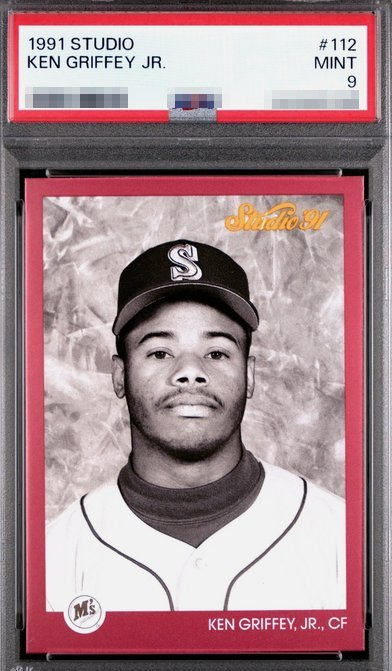
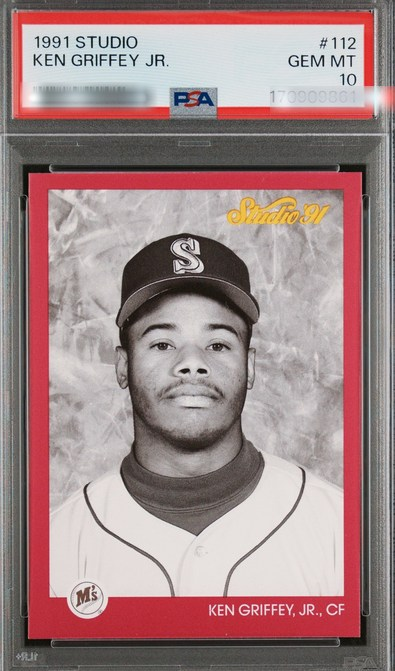
Update photo for 1991 Studio #112: now PSA 10, gentle soft blur on barcode/cert instead of heavy pixelation

diff --git a/1991/studio/index.html b/1991/studio/index.html
@@ -103,9 +103,9 @@ ul.plain li{margin:0 0 7px}ul.plain a{color:var(--dim);text-decoration:none;font
 <body>
 <div class="wrap">
 <a class="home" href="/">◂ Griffey Card Prices — interactive guide</a>
-<h1>1991 Studio Ken Griffey Jr. Card Values — What&rsquo;s It Worth?</h1><p class="sub">1991 Studio Ken Griffey Jr. card prices from real eBay sold listings: 1 card tracked, topping out at $315. Updated daily.</p><p class="answer">Among the eBay sales tracked here, the highest is the <b>Base #112</b> in PSA 10 at $315. A raw copy of that same card has sold for $6, depending on condition.</p><div class="tblwrap"><div class="theadwrap"><table class="ptable"><colgroup><col><col class="cp"><col class="cp"><col class="cp"><col class="cp"><col class="ceb"></colgroup><thead><tr><th>Card</th><th>Raw</th><th>PSA 8</th><th>PSA 9</th><th>PSA 10</th><th class="theb">eBay</th></tr></thead></table></div><div class="scrollx"><table class="ptable"><colgroup><col><col class="cp"><col class="cp"><col class="cp"><col class="cp"><col class="ceb"></colgroup><tbody><tr><td class="cname">Base #112</td><td class="raw">$6</td><td class="psa8">$13</td><td class="psa9">$34</td><td class="psa10"><span class="tr down">▼</span>$315</td><td class="eb"><a class="eb" href="https://www.ebay.com/sch/i.html?_nkw=1991%20Studio%20Ken%20Griffey%20Jr%20%23112&_sacat=0" target="_blank" rel="sponsored noopener" title="See sold listings on eBay" aria-label="Search eBay sold listings for 1991 Studio Ken Griffey Jr #112"><svg viewBox="0 0 24 24" width="15" height="15" aria-hidden="true" focusable="false"><circle cx="10.5" cy="10.5" r="6.5" fill="none" stroke="currentColor" stroke-width="2.2"/><line x1="15.4" y1="15.4" x2="21" y2="21" stroke="currentColor" stroke-width="2.4" stroke-linecap="round"/></svg></a></td></tr></tbody></table></div></div><section class="photo-section"><h2 class="ps-h">The Cards</h2><p class="ps-sub">Real photos from the guide — tap any card to zoom in.</p><div class="cardfigs"><figure class="cardfig"><div class="cf-photo"><img src="/img/cards/1991-studio-112-griffey-psa9.jpg" alt="1991 Studio Ken Griffey Jr. card #112 in PSA 9 slab" width="392" height="671" loading="lazy"><span class="cf-badge">PSA 10 · $315</span></div><figcaption>Base #112</figcaption></figure></div></section><h2>1991 Studio Value FAQ</h2><div class="faq"><div class="faq-item"><p class="faq-q">How much is a 1991 Studio Ken Griffey Jr. card worth?</p><p class="faq-a">Based on eBay sales tracked here, 1991 Studio Ken Griffey Jr. cards range up to $315 for the Base #112 in PSA 10. Exact value depends on the specific card and grade.</p></div><div class="faq-item"><p class="faq-q">What is the most valuable 1991 Studio Ken Griffey Jr. card?</p><p class="faq-a">Among tracked sales, the highest price for a 1991 Studio Griffey card is the Base #112 in PSA 10 at $315.</p></div><div class="faq-item"><p class="faq-q">What is a raw (ungraded) 1991 Studio Ken Griffey Jr. card worth?</p><p class="faq-a">A raw copy of the Base #112, the set's top card, has sold for $6 — raw prices vary by card and condition.</p></div></div><h2>More 1991 Griffey Sets</h2><ul class="plain"><li><a href="/1991/bowman/">1991 Bowman</a></li><li><a href="/1991/donruss/">1991 Donruss</a></li><li><a href="/1991/fleer/">1991 Fleer</a></li><li><a href="/1991/leaf/">1991 Leaf</a></li><li><a href="/1991/o-pee-chee/">1991 O-Pee-Chee</a></li><li><a href="/1991/score/">1991 Score</a></li><li><a href="/1991/stadium-club/">1991 Stadium Club</a></li><li><a href="/1991/topps/">1991 Topps</a></li><li><a href="/1991/ultra/">1991 Ultra</a></li><li><a href="/1991/upper-deck/">1991 Upper Deck</a></li></ul>
+<h1>1991 Studio Ken Griffey Jr. Card Values — What&rsquo;s It Worth?</h1><p class="sub">1991 Studio Ken Griffey Jr. card prices from real eBay sold listings: 1 card tracked, topping out at $315. Updated daily.</p><p class="answer">Among the eBay sales tracked here, the highest is the <b>Base #112</b> in PSA 10 at $315. A raw copy of that same card has sold for $6, depending on condition.</p><div class="tblwrap"><div class="theadwrap"><table class="ptable"><colgroup><col><col class="cp"><col class="cp"><col class="cp"><col class="cp"><col class="ceb"></colgroup><thead><tr><th>Card</th><th>Raw</th><th>PSA 8</th><th>PSA 9</th><th>PSA 10</th><th class="theb">eBay</th></tr></thead></table></div><div class="scrollx"><table class="ptable"><colgroup><col><col class="cp"><col class="cp"><col class="cp"><col class="cp"><col class="ceb"></colgroup><tbody><tr><td class="cname">Base #112</td><td class="raw">$6</td><td class="psa8">$13</td><td class="psa9">$34</td><td class="psa10"><span class="tr down">▼</span>$315</td><td class="eb"><a class="eb" href="https://www.ebay.com/sch/i.html?_nkw=1991%20Studio%20Ken%20Griffey%20Jr%20%23112&_sacat=0" target="_blank" rel="sponsored noopener" title="See sold listings on eBay" aria-label="Search eBay sold listings for 1991 Studio Ken Griffey Jr #112"><svg viewBox="0 0 24 24" width="15" height="15" aria-hidden="true" focusable="false"><circle cx="10.5" cy="10.5" r="6.5" fill="none" stroke="currentColor" stroke-width="2.2"/><line x1="15.4" y1="15.4" x2="21" y2="21" stroke="currentColor" stroke-width="2.4" stroke-linecap="round"/></svg></a></td></tr></tbody></table></div></div><section class="photo-section"><h2 class="ps-h">The Cards</h2><p class="ps-sub">Real photos from the guide — tap any card to zoom in.</p><div class="cardfigs"><figure class="cardfig"><div class="cf-photo"><img src="/img/cards/1991-studio-112-griffey-psa9.jpg" alt="1991 Studio Ken Griffey Jr. card #112 in PSA 10 slab" width="395" height="671" loading="lazy"><span class="cf-badge">PSA 10 · $315</span></div><figcaption>Base #112</figcaption></figure></div></section><h2>1991 Studio Value FAQ</h2><div class="faq"><div class="faq-item"><p class="faq-q">How much is a 1991 Studio Ken Griffey Jr. card worth?</p><p class="faq-a">Based on eBay sales tracked here, 1991 Studio Ken Griffey Jr. cards range up to $315 for the Base #112 in PSA 10. Exact value depends on the specific card and grade.</p></div><div class="faq-item"><p class="faq-q">What is the most valuable 1991 Studio Ken Griffey Jr. card?</p><p class="faq-a">Among tracked sales, the highest price for a 1991 Studio Griffey card is the Base #112 in PSA 10 at $315.</p></div><div class="faq-item"><p class="faq-q">What is a raw (ungraded) 1991 Studio Ken Griffey Jr. card worth?</p><p class="faq-a">A raw copy of the Base #112, the set's top card, has sold for $6 — raw prices vary by card and condition.</p></div></div><h2>More 1991 Griffey Sets</h2><ul class="plain"><li><a href="/1991/bowman/">1991 Bowman</a></li><li><a href="/1991/donruss/">1991 Donruss</a></li><li><a href="/1991/fleer/">1991 Fleer</a></li><li><a href="/1991/leaf/">1991 Leaf</a></li><li><a href="/1991/o-pee-chee/">1991 O-Pee-Chee</a></li><li><a href="/1991/score/">1991 Score</a></li><li><a href="/1991/stadium-club/">1991 Stadium Club</a></li><li><a href="/1991/topps/">1991 Topps</a></li><li><a href="/1991/ultra/">1991 Ultra</a></li><li><a href="/1991/upper-deck/">1991 Upper Deck</a></li></ul>
 <div class="bottomnav"><div class="bn-label">Browse the guide</div><nav class="yearnav"><a href="/1990/">1990</a><span class="on">1991</span><a href="/1992/">1992</a><a href="/1993/">1993</a><a href="/1994/">1994</a><a href="/1995/">1995</a><a href="/1996/">1996</a><a href="/1997/">1997</a><a href="/1998/">1998</a><a href="/1999/">1999</a><a href="/most-valuable/">Top 25 Sales</a><a href="/biggest-movers/">Biggest Movers</a><a href="/how-much-are-griffey-cards-worth/">Card Values</a><a href="/blog/">Market Reports</a></nav></div>
-<div class="foot">Prices updated August 16, 2026 from real eBay sold listings · Not affiliated with PSA, eBay, or Topps · Built for collectors, by a collector<br><a href="/">griffeycardprices.com</a> · <a href="/site-map/">Site Map</a> · <a href="mailto:shareyoursportscards@gmail.com">shareyoursportscards@gmail.com</a></div>
+<div class="foot">Prices updated August 17, 2026 from real eBay sold listings · Not affiliated with PSA, eBay, or Topps · Built for collectors, by a collector<br><a href="/">griffeycardprices.com</a> · <a href="/site-map/">Site Map</a> · <a href="mailto:shareyoursportscards@gmail.com">shareyoursportscards@gmail.com</a></div>
 </div>
 <div class="lb" id="cardLb"><img alt=""></div>
 <script>(function(){var lb=document.getElementById("cardLb"),li=lb.firstElementChild;document.addEventListener("click",function(e){var t=e.target;if(t.tagName==="IMG"&&t.closest&&t.closest(".cardfig")){li.src=t.src;li.alt=t.alt;lb.classList.add("open");}else if(lb.classList.contains("open")){lb.classList.remove("open");}});document.addEventListener("keydown",function(e){if(e.key==="Escape")lb.classList.remove("open");});})();</script>
